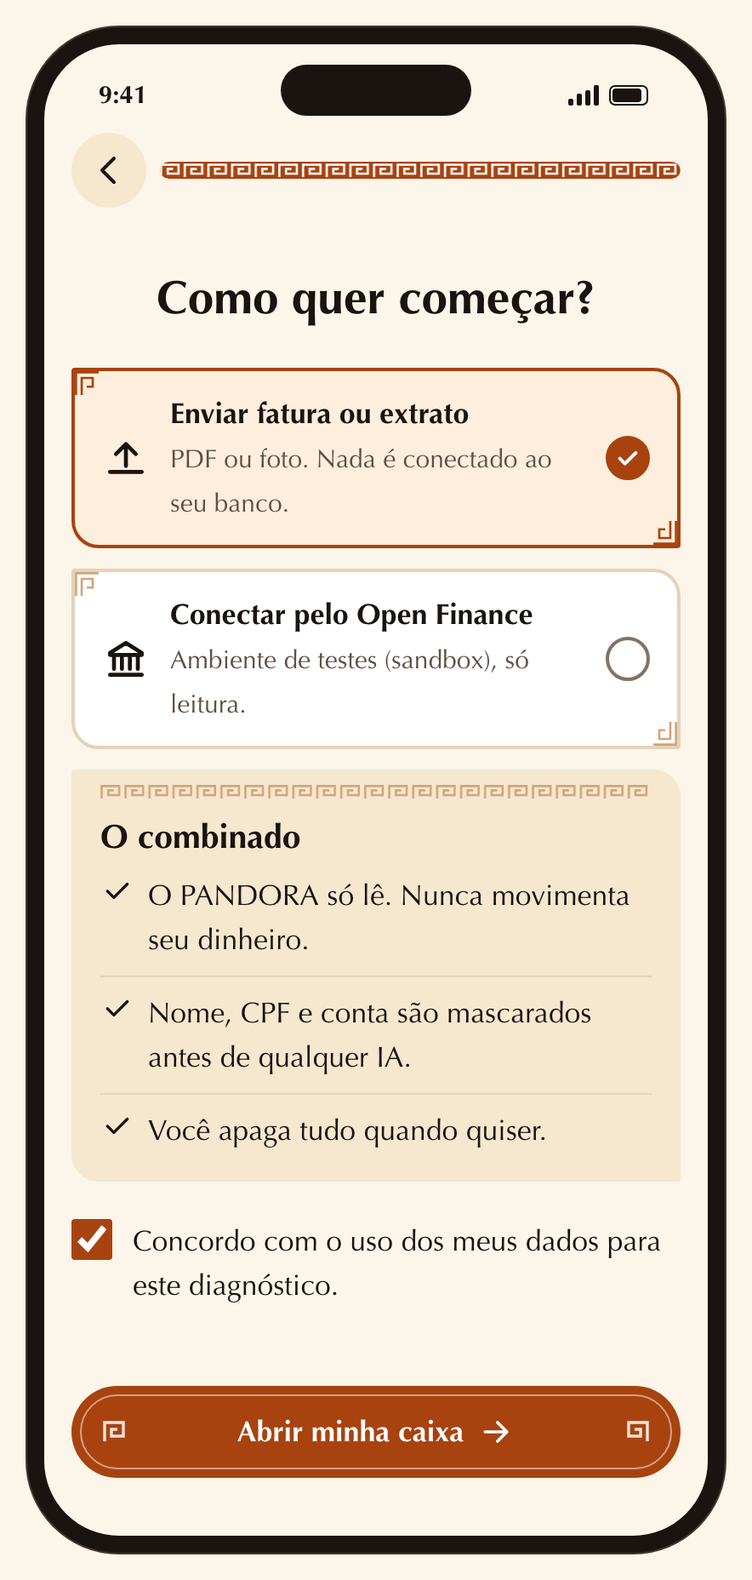
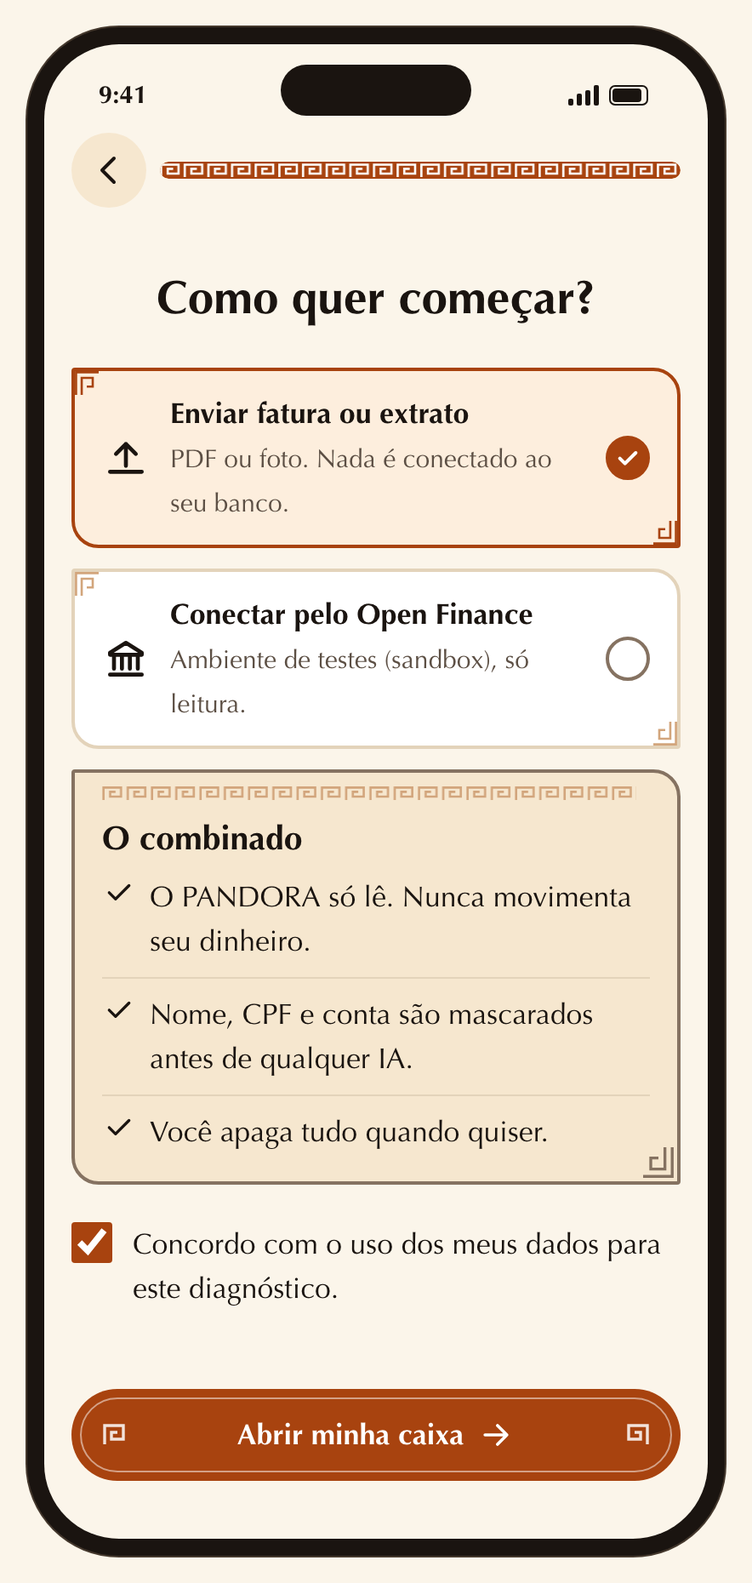
fix(front): moldura e disco de ícone nos avisos e serra da navegação interrompida no medalhão
Avisos ganham borda na cor do estado, chave no canto e disco de ícone com anel duplo,
e o veredito da leitura ampliada segue a mesma moldura. A serra da NavBase deixa de
cruzar a curva do medalhão de Elpis. Novo componente Disco e telas recapturadas.

diff --git a/frontend/design-system/components/bundle.css b/frontend/design-system/components/bundle.css
@@ -64,7 +64,7 @@
 .pd-nav::before { content: ""; position: absolute; left: 50%; top: -26px; width: 92px; height: 60px; margin-left: -46px; border-radius: 46px 46px 0 0; background: var(--base); }
 .pd-nav-item { position: relative; display: flex; flex-direction: column; align-items: center; justify-content: flex-end; gap: 2px; min-height: 56px; padding: 4px 0; border: 0; background: transparent; color: #fbf5ea; font-size: 15px; line-height: 18px; font-weight: 400; cursor: pointer; }
 .pd-nav-item[aria-current="page"] { color: #ff9a55; font-weight: 700; }
-.pd-nav-item[aria-current="page"]::before { content: ""; position: absolute; top: -6px; left: 50%; width: 42px; height: 7px; margin-left: -21px; background: #ff9a55; -webkit-mask: var(--orn-meandro-fino) left center / 14px 7px round no-repeat; mask: var(--orn-meandro-fino) left center / 14px 7px round no-repeat; }
+.pd-nav-item[aria-current="page"]::before { content: ""; position: absolute; top: -3px; left: 50%; width: 42px; height: 7px; margin-left: -21px; background: #ff9a55; -webkit-mask: var(--orn-meandro-fino) left center / 14px 7px round no-repeat; mask: var(--orn-meandro-fino) left center / 14px 7px round no-repeat; }
 .pd-nav-elpis-disco { position: absolute; top: -32px; left: 50%; width: 60px; height: 60px; margin-left: -30px; border-radius: 30px; display: flex; align-items: center; justify-content: center; }
 .pd-nav-item[aria-current="page"] .pd-nav-elpis-disco { box-shadow: 0 0 0 3px #fbf5ea; }
 .pd-nav-item-elpis[aria-current="page"]::before { display: none; }
@@ -229,7 +229,10 @@
 .pd-crise { flex: 1; display: flex; flex-direction: column; gap: var(--espaco-4); padding: var(--espaco-6) var(--espaco-6) 38px; }
 .pd-crise-titulo { font-size: 30px; line-height: 38px; font-weight: 700; }
 .pd-ampliado { flex: 1; display: flex; flex-direction: column; gap: var(--espaco-4); padding: var(--espaco-4) var(--espaco-4) 34px; font-size: 24px; line-height: 34px; font-weight: 400; }
-.pd-ampliado-veredito { display: flex; flex-direction: column; gap: var(--espaco-2); padding: 20px; border-radius: var(--raio-md); background: var(--alerta-suave); color: var(--texto); }
+.pd-ampliado-veredito { position: relative; display: flex; flex-direction: column; align-items: flex-start; gap: var(--espaco-2); padding: 24px 20px 20px; border-radius: 2px var(--raio-md) 2px var(--raio-md); background: var(--alerta-suave); color: var(--texto); border: 3px double var(--alerta); }
+.pd-ampliado-veredito::before, .pd-ampliado-veredito::after { content: ""; position: absolute; width: 22px; height: 22px; background: var(--alerta); -webkit-mask: var(--orn-chave-canto) center / 100% 100% no-repeat; mask: var(--orn-chave-canto) center / 100% 100% no-repeat; }
+.pd-ampliado-veredito::before { top: 3px; left: 3px; }
+.pd-ampliado-veredito::after { right: 3px; bottom: 3px; transform: rotate(180deg); }
 .pd-ampliado-titulo { font-size: 44px; line-height: 50px; font-weight: 900; color: var(--alerta); }
 
 /* Frisos */
@@ -253,12 +256,27 @@
 
 /* Avisos: cada estado tem o seu friso, além do ícone e da palavra */
 .pd-cartao-apoio, .pd-cartao-alerta, .pd-cartao-ok, .pd-insight { padding-top: 26px; }
-.pd-cartao-apoio::after, .pd-cartao-alerta::after, .pd-cartao-ok::after, .pd-insight::after { display: none; }
-.pd-cartao-apoio::before, .pd-cartao-alerta::before, .pd-cartao-ok::before, .pd-insight::before { top: 8px; left: 16px; width: auto; right: 16px; -webkit-mask-repeat: round no-repeat; mask-repeat: round no-repeat; -webkit-mask-position: left center; mask-position: left center; }
+.pd-cartao-apoio, .pd-cartao-alerta, .pd-cartao-ok, .pd-insight { border: 2px solid var(--aviso-cor); }
+.pd-cartao-apoio { --aviso-cor: var(--linha-forte); }
+.pd-cartao-alerta { --aviso-cor: var(--alerta); }
+.pd-cartao-ok { --aviso-cor: var(--ok); }
+.pd-insight { --aviso-cor: var(--ornamento-forte); }
+.pd-cartao-apoio::after, .pd-cartao-alerta::after, .pd-cartao-ok::after, .pd-insight::after { width: 18px; height: 18px; right: 2px; bottom: 2px; background: var(--aviso-cor); }
+.pd-cartao-apoio::before, .pd-cartao-alerta::before, .pd-cartao-ok::before, .pd-insight::before { top: 8px; left: 16px; width: auto; right: 24px; -webkit-mask-repeat: round no-repeat; mask-repeat: round no-repeat; -webkit-mask-position: left center; mask-position: left center; }
 .pd-cartao-apoio::before { height: 8px; -webkit-mask-image: var(--orn-meandro-fino); mask-image: var(--orn-meandro-fino); -webkit-mask-size: 14px 8px; mask-size: 14px 8px; }
 .pd-cartao-alerta::before { height: 7px; background: var(--alerta); -webkit-mask-image: var(--orn-serra-fina); mask-image: var(--orn-serra-fina); -webkit-mask-size: 10px 7px; mask-size: 10px 7px; }
 .pd-cartao-ok::before { height: 10px; background: var(--ok); -webkit-mask-image: var(--orn-ramo); mask-image: var(--orn-ramo); -webkit-mask-size: 22px 10px; mask-size: 22px 10px; }
 .pd-insight::before { height: 14px; background: var(--ornamento-forte); -webkit-mask-image: var(--orn-palmeta); mask-image: var(--orn-palmeta); -webkit-mask-size: 34px 14px; mask-size: 34px 14px; }
+
+/* Disco de ícone dos avisos: anel duplo, como os botões redondos */
+.pd-cartao-cabeca { display: flex; align-items: center; gap: var(--espaco-3); }
+.pd-cartao-cabeca .pd-cartao-titulo { flex: 1; min-width: 0; }
+.pd-disco { flex: none; display: inline-flex; align-items: center; justify-content: center; width: 32px; height: 32px; border-radius: 50%; color: var(--cartao); background: var(--disco-cor); box-shadow: 0 0 0 2px var(--cartao), 0 0 0 3.5px var(--disco-cor); margin: 3px; }
+.pd-disco-alerta { --disco-cor: var(--alerta); }
+.pd-disco-ok { --disco-cor: var(--ok); }
+.pd-disco-grande { width: 56px; height: 56px; margin: 4px; }
+.pd-disco-pequeno { width: 26px; height: 26px; margin: 2px; box-shadow: 0 0 0 1.5px var(--cartao), 0 0 0 3px var(--disco-cor); }
+.pd-lista > li > .pd-disco-pequeno { margin-top: 0; margin-right: 5px; }
 
 /* Botões: filete interno e uma chave em cada ponta */
 .pd-botao-primario::before, .pd-botao-mito::before, .pd-botao-claro::before { content: ""; position: absolute; inset: 3px; border-radius: inherit; border: 1px solid currentColor; opacity: .5; pointer-events: none; }
@@ -284,7 +302,7 @@
 .pd-chat-cabeca::after { content: ""; position: absolute; left: var(--espaco-4); right: var(--espaco-4); bottom: 0; height: 8px; background: var(--ornamento); -webkit-mask: var(--orn-meandro-fino) left center / 14px 8px round no-repeat; mask: var(--orn-meandro-fino) left center / 14px 8px round no-repeat; }
 
 /* Navegação: serra na borda de cima da base do vaso */
-.pd-nav::after { content: ""; position: absolute; left: 0; right: 0; top: -7px; height: 7px; background: var(--base); -webkit-mask: var(--orn-serra-alta) left bottom / 10px 7px round no-repeat; mask: var(--orn-serra-alta) left bottom / 10px 7px round no-repeat; }
+.pd-nav::after { content: ""; position: absolute; left: 0; right: 0; top: -7px; height: 7px; background: var(--base); -webkit-mask: var(--orn-serra-alta) left bottom / 10px 7px round no-repeat, linear-gradient(90deg, #000 calc(50% - 58px), transparent calc(50% - 58px), transparent calc(50% + 58px), #000 calc(50% + 58px)); mask: var(--orn-serra-alta) left bottom / 10px 7px round no-repeat, linear-gradient(90deg, #000 calc(50% - 58px), transparent calc(50% - 58px), transparent calc(50% + 58px), #000 calc(50% + 58px)); -webkit-mask-composite: source-in; mask-composite: intersect; }
 
 /* Brasões */
 .pd-brasao { display: block; }

diff --git a/frontend/design-system/src/bundle.src.css b/frontend/design-system/src/bundle.src.css
@@ -46,7 +46,7 @@
 .pd-nav::before { content: ""; position: absolute; left: 50%; top: -26px; width: 92px; height: 60px; margin-left: -46px; border-radius: 46px 46px 0 0; background: var(--base); }
 .pd-nav-item { position: relative; display: flex; flex-direction: column; align-items: center; justify-content: flex-end; gap: 2px; min-height: 56px; padding: 4px 0; border: 0; background: transparent; color: #fbf5ea; font-size: 15px; line-height: 18px; font-weight: 400; cursor: pointer; }
 .pd-nav-item[aria-current="page"] { color: #ff9a55; font-weight: 700; }
-.pd-nav-item[aria-current="page"]::before { content: ""; position: absolute; top: -6px; left: 50%; width: 42px; height: 7px; margin-left: -21px; background: #ff9a55; -webkit-mask: var(--orn-meandro-fino) left center / 14px 7px round no-repeat; mask: var(--orn-meandro-fino) left center / 14px 7px round no-repeat; }
+.pd-nav-item[aria-current="page"]::before { content: ""; position: absolute; top: -3px; left: 50%; width: 42px; height: 7px; margin-left: -21px; background: #ff9a55; -webkit-mask: var(--orn-meandro-fino) left center / 14px 7px round no-repeat; mask: var(--orn-meandro-fino) left center / 14px 7px round no-repeat; }
 .pd-nav-elpis-disco { position: absolute; top: -32px; left: 50%; width: 60px; height: 60px; margin-left: -30px; border-radius: 30px; display: flex; align-items: center; justify-content: center; }
 .pd-nav-item[aria-current="page"] .pd-nav-elpis-disco { box-shadow: 0 0 0 3px #fbf5ea; }
 .pd-nav-item-elpis[aria-current="page"]::before { display: none; }
@@ -211,7 +211,10 @@
 .pd-crise { flex: 1; display: flex; flex-direction: column; gap: var(--espaco-4); padding: var(--espaco-6) var(--espaco-6) 38px; }
 .pd-crise-titulo { font-size: 30px; line-height: 38px; font-weight: 700; }
 .pd-ampliado { flex: 1; display: flex; flex-direction: column; gap: var(--espaco-4); padding: var(--espaco-4) var(--espaco-4) 34px; font-size: 24px; line-height: 34px; font-weight: 400; }
-.pd-ampliado-veredito { display: flex; flex-direction: column; gap: var(--espaco-2); padding: 20px; border-radius: var(--raio-md); background: var(--alerta-suave); color: var(--texto); }
+.pd-ampliado-veredito { position: relative; display: flex; flex-direction: column; align-items: flex-start; gap: var(--espaco-2); padding: 24px 20px 20px; border-radius: 2px var(--raio-md) 2px var(--raio-md); background: var(--alerta-suave); color: var(--texto); border: 3px double var(--alerta); }
+.pd-ampliado-veredito::before, .pd-ampliado-veredito::after { content: ""; position: absolute; width: 22px; height: 22px; background: var(--alerta); -webkit-mask: var(--orn-chave-canto) center / 100% 100% no-repeat; mask: var(--orn-chave-canto) center / 100% 100% no-repeat; }
+.pd-ampliado-veredito::before { top: 3px; left: 3px; }
+.pd-ampliado-veredito::after { right: 3px; bottom: 3px; transform: rotate(180deg); }
 .pd-ampliado-titulo { font-size: 44px; line-height: 50px; font-weight: 900; color: var(--alerta); }
 
 /* Frisos */
@@ -235,12 +238,27 @@
 
 /* Avisos: cada estado tem o seu friso, além do ícone e da palavra */
 .pd-cartao-apoio, .pd-cartao-alerta, .pd-cartao-ok, .pd-insight { padding-top: 26px; }
-.pd-cartao-apoio::after, .pd-cartao-alerta::after, .pd-cartao-ok::after, .pd-insight::after { display: none; }
-.pd-cartao-apoio::before, .pd-cartao-alerta::before, .pd-cartao-ok::before, .pd-insight::before { top: 8px; left: 16px; width: auto; right: 16px; -webkit-mask-repeat: round no-repeat; mask-repeat: round no-repeat; -webkit-mask-position: left center; mask-position: left center; }
+.pd-cartao-apoio, .pd-cartao-alerta, .pd-cartao-ok, .pd-insight { border: 2px solid var(--aviso-cor); }
+.pd-cartao-apoio { --aviso-cor: var(--linha-forte); }
+.pd-cartao-alerta { --aviso-cor: var(--alerta); }
+.pd-cartao-ok { --aviso-cor: var(--ok); }
+.pd-insight { --aviso-cor: var(--ornamento-forte); }
+.pd-cartao-apoio::after, .pd-cartao-alerta::after, .pd-cartao-ok::after, .pd-insight::after { width: 18px; height: 18px; right: 2px; bottom: 2px; background: var(--aviso-cor); }
+.pd-cartao-apoio::before, .pd-cartao-alerta::before, .pd-cartao-ok::before, .pd-insight::before { top: 8px; left: 16px; width: auto; right: 24px; -webkit-mask-repeat: round no-repeat; mask-repeat: round no-repeat; -webkit-mask-position: left center; mask-position: left center; }
 .pd-cartao-apoio::before { height: 8px; -webkit-mask-image: var(--orn-meandro-fino); mask-image: var(--orn-meandro-fino); -webkit-mask-size: 14px 8px; mask-size: 14px 8px; }
 .pd-cartao-alerta::before { height: 7px; background: var(--alerta); -webkit-mask-image: var(--orn-serra-fina); mask-image: var(--orn-serra-fina); -webkit-mask-size: 10px 7px; mask-size: 10px 7px; }
 .pd-cartao-ok::before { height: 10px; background: var(--ok); -webkit-mask-image: var(--orn-ramo); mask-image: var(--orn-ramo); -webkit-mask-size: 22px 10px; mask-size: 22px 10px; }
 .pd-insight::before { height: 14px; background: var(--ornamento-forte); -webkit-mask-image: var(--orn-palmeta); mask-image: var(--orn-palmeta); -webkit-mask-size: 34px 14px; mask-size: 34px 14px; }
+
+/* Disco de ícone dos avisos: anel duplo, como os botões redondos */
+.pd-cartao-cabeca { display: flex; align-items: center; gap: var(--espaco-3); }
+.pd-cartao-cabeca .pd-cartao-titulo { flex: 1; min-width: 0; }
+.pd-disco { flex: none; display: inline-flex; align-items: center; justify-content: center; width: 32px; height: 32px; border-radius: 50%; color: var(--cartao); background: var(--disco-cor); box-shadow: 0 0 0 2px var(--cartao), 0 0 0 3.5px var(--disco-cor); margin: 3px; }
+.pd-disco-alerta { --disco-cor: var(--alerta); }
+.pd-disco-ok { --disco-cor: var(--ok); }
+.pd-disco-grande { width: 56px; height: 56px; margin: 4px; }
+.pd-disco-pequeno { width: 26px; height: 26px; margin: 2px; box-shadow: 0 0 0 1.5px var(--cartao), 0 0 0 3px var(--disco-cor); }
+.pd-lista > li > .pd-disco-pequeno { margin-top: 0; margin-right: 5px; }
 
 /* Botões: filete interno e uma chave em cada ponta */
 .pd-botao-primario::before, .pd-botao-mito::before, .pd-botao-claro::before { content: ""; position: absolute; inset: 3px; border-radius: inherit; border: 1px solid currentColor; opacity: .5; pointer-events: none; }
@@ -266,7 +284,7 @@
 .pd-chat-cabeca::after { content: ""; position: absolute; left: var(--espaco-4); right: var(--espaco-4); bottom: 0; height: 8px; background: var(--ornamento); -webkit-mask: var(--orn-meandro-fino) left center / 14px 8px round no-repeat; mask: var(--orn-meandro-fino) left center / 14px 8px round no-repeat; }
 
 /* Navegação: serra na borda de cima da base do vaso */
-.pd-nav::after { content: ""; position: absolute; left: 0; right: 0; top: -7px; height: 7px; background: var(--base); -webkit-mask: var(--orn-serra-alta) left bottom / 10px 7px round no-repeat; mask: var(--orn-serra-alta) left bottom / 10px 7px round no-repeat; }
+.pd-nav::after { content: ""; position: absolute; left: 0; right: 0; top: -7px; height: 7px; background: var(--base); -webkit-mask: var(--orn-serra-alta) left bottom / 10px 7px round no-repeat, linear-gradient(90deg, #000 calc(50% - 58px), transparent calc(50% - 58px), transparent calc(50% + 58px), #000 calc(50% + 58px)); mask: var(--orn-serra-alta) left bottom / 10px 7px round no-repeat, linear-gradient(90deg, #000 calc(50% - 58px), transparent calc(50% - 58px), transparent calc(50% + 58px), #000 calc(50% + 58px)); -webkit-mask-composite: source-in; mask-composite: intersect; }
 
 /* Brasões */
 .pd-brasao { display: block; }

diff --git a/frontend/design-system/components/bundle.js b/frontend/design-system/components/bundle.js
@@ -1,4 +1,4 @@
-/* @ds-bundle: {"format":4,"namespace":"Pandora","components":[{"name":"Icone"},{"name":"Friso"},{"name":"Meandro"},{"name":"Serra"},{"name":"CaixaMarca"},{"name":"Elpis"},{"name":"Brasao"},{"name":"Anfora"},{"name":"Botao"},{"name":"BotaoIcone"},{"name":"BotaoVoz"},{"name":"Segmento"},{"name":"Alternador"},{"name":"Progresso"},{"name":"OpcaoCartao"},{"name":"EscalaSentimento"},{"name":"Consentimento"},{"name":"Cartao"},{"name":"Selo"},{"name":"SeloCalculado"},{"name":"Trilho"},{"name":"Insight"},{"name":"LinkCartao"},{"name":"LinhaDivida"},{"name":"DegrausProgresso"},{"name":"Balao"},{"name":"CitacaoCartao"},{"name":"BlocoCalculado"},{"name":"CampoPergunta"},{"name":"CabecalhoElpis"},{"name":"TrilhaCaminho"},{"name":"QuizOpcao"},{"name":"Rolagem"},{"name":"Aparelho"},{"name":"CabecalhoMito"},{"name":"NavBase"},{"name":"Galeria"},{"name":"TelaAbertura"},{"name":"TelaInicio"},{"name":"TelaDividas"},{"name":"TelaElpis"},{"name":"TelaTrilha"},{"name":"TelaGuardiao"},{"name":"TelaMetas"},{"name":"TelaCrise"},{"name":"TelaGuardiaoAmpliada"}]} */
+/* @ds-bundle: {"format":4,"namespace":"Pandora","components":[{"name":"Icone"},{"name":"Friso"},{"name":"Disco"},{"name":"Meandro"},{"name":"Serra"},{"name":"CaixaMarca"},{"name":"Elpis"},{"name":"Brasao"},{"name":"Anfora"},{"name":"Botao"},{"name":"BotaoIcone"},{"name":"BotaoVoz"},{"name":"Segmento"},{"name":"Alternador"},{"name":"Progresso"},{"name":"OpcaoCartao"},{"name":"EscalaSentimento"},{"name":"Consentimento"},{"name":"Cartao"},{"name":"Selo"},{"name":"SeloCalculado"},{"name":"Trilho"},{"name":"Insight"},{"name":"LinkCartao"},{"name":"LinhaDivida"},{"name":"DegrausProgresso"},{"name":"Balao"},{"name":"CitacaoCartao"},{"name":"BlocoCalculado"},{"name":"CampoPergunta"},{"name":"CabecalhoElpis"},{"name":"TrilhaCaminho"},{"name":"QuizOpcao"},{"name":"Rolagem"},{"name":"Aparelho"},{"name":"CabecalhoMito"},{"name":"NavBase"},{"name":"Galeria"},{"name":"TelaAbertura"},{"name":"TelaInicio"},{"name":"TelaDividas"},{"name":"TelaElpis"},{"name":"TelaTrilha"},{"name":"TelaGuardiao"},{"name":"TelaMetas"},{"name":"TelaCrise"},{"name":"TelaGuardiaoAmpliada"}]} */
 (function () {
   var React = window.React, h = React.createElement, useState = React.useState, useId = React.useId, useRef = React.useRef, useEffect = React.useEffect, Fragment = React.Fragment;
   var CENA_PADRAO = './assets/Cena/pandora-cena.png';
@@ -142,11 +142,18 @@
   }
   function SeloCalculado() { return h(Selo, { tom: 'fonte', icone: 'check' }, 'Calculado'); }
 
+  /* Disco de ícone para estados: o ícone vem sempre com palavra ao lado. */
+  function Disco(p) {
+    return h('span', { className: cx('pd-disco', 'pd-disco-' + p.tom, p.tamanho && 'pd-disco-' + p.tamanho), 'aria-hidden': true }, h(Icone, { nome: p.icone, tamanho: p.tamanho === 'grande' ? 34 : p.tamanho === 'pequeno' ? 16 : 20, traco: 2.6 }));
+  }
+
   /* Dados */
   function Cartao(p) {
+    var disco = p.tom === 'alerta' ? 'alerta' : p.tom === 'ok' ? 'check' : null;
+    var titulo = p.titulo ? h('h3', { className: p.marco ? 'pd-no-marco' : 'pd-cartao-titulo' }, p.titulo) : null;
     return h('section', { className: cx('pd-cartao', p.tom && 'pd-cartao-' + p.tom, p.className) },
       p.sobre ? h('p', { className: 'pd-cartao-sobre' }, p.sobre) : null,
-      p.titulo ? h('h3', { className: p.marco ? 'pd-no-marco' : 'pd-cartao-titulo' }, p.titulo) : null, p.children);
+      disco && titulo ? h('div', { className: 'pd-cartao-cabeca' }, h(Disco, { tom: p.tom, icone: disco }), titulo) : titulo, p.children);
   }
   function Trilho(p) {
     var total = p.total || p.partes.reduce(function (s, x) { return s + x.valor; }, 0);
@@ -490,7 +497,7 @@
       h(Botao, { bloco: true, icone: 'camera' }, 'Verificar boleto ou print'),
       h(Cartao, { tom: 'alerta', titulo: 'Não pague este boleto' },
         h('p', null, '“Quitação com 70% de desconto”, recebido por WhatsApp. ', h('strong', { className: 'pd-num' }, 'R$ 1.198,00'), '.'),
-        h('ul', { className: 'pd-lista' }, [['check', 'Linha digitável', 'Lida e conferida'], ['x', 'Banco do boleto', 'Diferente do banco credor'], ['x', 'Quem recebe', 'Conta de pessoa física']].map(function (l) { return h('li', { key: l[1] }, h(Icone, { nome: l[0], tamanho: 22, traco: 2.5 }), h('span', { className: 'pd-lista-texto' }, h('strong', null, l[1]), h('br'), l[2])); })),
+        h('ul', { className: 'pd-lista' }, [['check', 'Linha digitável', 'Lida e conferida'], ['x', 'Banco do boleto', 'Diferente do banco credor'], ['x', 'Quem recebe', 'Conta de pessoa física']].map(function (l) { return h('li', { key: l[1] }, h(Disco, { tom: l[0] === 'check' ? 'ok' : 'alerta', icone: l[0], tamanho: 'pequeno' }), h('span', { className: 'pd-lista-texto' }, h('strong', null, l[1]), h('br'), l[2])); })),
         h(Botao, { variante: 'secundario', bloco: true, icone: 'pessoas' }, 'Avisar pessoa de confiança')),
       h(Cartao, { titulo: 'Já fez o Pix?' },
         h('p', null, 'Dá para pedir a devolução pelo MED em até 80 dias.'),
@@ -503,7 +510,7 @@
   function TelaGuardiaoAmpliada() {
     return h(Aparelho, null, h('div', { className: 'pd-ampliado pd-acessivel pd-contido' },
       h('div', { className: 'pd-ampliado-veredito' },
-        h(Icone, { nome: 'alerta', tamanho: 44, traco: 2.5, className: 'pd-icone-tom', rotulo: 'Alerta' }),
+        h('span', { role: 'img', 'aria-label': 'Alerta' }, h(Disco, { tom: 'alerta', icone: 'alerta', tamanho: 'grande' })),
         h('h1', { className: 'pd-ampliado-titulo' }, 'PARE!'),
         h('p', { style: { fontWeight: 700 } }, 'Sr. Antônio, não pague este boleto.')),
       h('p', null, 'Ele tem o desenho do banco, mas o dinheiro vai para a conta de uma pessoa desconhecida.'),
@@ -578,7 +585,7 @@
   }
 
   window.Pandora = {
-    Icone: Icone, Friso: Friso, Meandro: Meandro, Serra: Serra, CaixaMarca: CaixaMarca, Elpis: Elpis, Brasao: Brasao, Anfora: Anfora,
+    Icone: Icone, Disco: Disco, Friso: Friso, Meandro: Meandro, Serra: Serra, CaixaMarca: CaixaMarca, Elpis: Elpis, Brasao: Brasao, Anfora: Anfora,
     Botao: Botao, BotaoIcone: BotaoIcone, BotaoVoz: BotaoVoz, Selo: Selo, SeloCalculado: SeloCalculado,
     Cartao: Cartao, Trilho: Trilho, Insight: Insight, LinkCartao: LinkCartao, CampoPergunta: CampoPergunta,
     Progresso: Progresso, OpcaoCartao: OpcaoCartao, EscalaSentimento: EscalaSentimento, Consentimento: Consentimento, Segmento: Segmento, Alternador: Alternador,

diff --git a/frontend/design-system/src/bundle.body.js b/frontend/design-system/src/bundle.body.js
@@ -141,11 +141,18 @@
   }
   function SeloCalculado() { return h(Selo, { tom: 'fonte', icone: 'check' }, 'Calculado'); }
 
+  /* Disco de ícone para estados: o ícone vem sempre com palavra ao lado. */
+  function Disco(p) {
+    return h('span', { className: cx('pd-disco', 'pd-disco-' + p.tom, p.tamanho && 'pd-disco-' + p.tamanho), 'aria-hidden': true }, h(Icone, { nome: p.icone, tamanho: p.tamanho === 'grande' ? 34 : p.tamanho === 'pequeno' ? 16 : 20, traco: 2.6 }));
+  }
+
   /* Dados */
   function Cartao(p) {
+    var disco = p.tom === 'alerta' ? 'alerta' : p.tom === 'ok' ? 'check' : null;
+    var titulo = p.titulo ? h('h3', { className: p.marco ? 'pd-no-marco' : 'pd-cartao-titulo' }, p.titulo) : null;
     return h('section', { className: cx('pd-cartao', p.tom && 'pd-cartao-' + p.tom, p.className) },
       p.sobre ? h('p', { className: 'pd-cartao-sobre' }, p.sobre) : null,
-      p.titulo ? h('h3', { className: p.marco ? 'pd-no-marco' : 'pd-cartao-titulo' }, p.titulo) : null, p.children);
+      disco && titulo ? h('div', { className: 'pd-cartao-cabeca' }, h(Disco, { tom: p.tom, icone: disco }), titulo) : titulo, p.children);
   }
   function Trilho(p) {
     var total = p.total || p.partes.reduce(function (s, x) { return s + x.valor; }, 0);
@@ -489,7 +496,7 @@
       h(Botao, { bloco: true, icone: 'camera' }, 'Verificar boleto ou print'),
       h(Cartao, { tom: 'alerta', titulo: 'Não pague este boleto' },
         h('p', null, '“Quitação com 70% de desconto”, recebido por WhatsApp. ', h('strong', { className: 'pd-num' }, 'R$ 1.198,00'), '.'),
-        h('ul', { className: 'pd-lista' }, [['check', 'Linha digitável', 'Lida e conferida'], ['x', 'Banco do boleto', 'Diferente do banco credor'], ['x', 'Quem recebe', 'Conta de pessoa física']].map(function (l) { return h('li', { key: l[1] }, h(Icone, { nome: l[0], tamanho: 22, traco: 2.5 }), h('span', { className: 'pd-lista-texto' }, h('strong', null, l[1]), h('br'), l[2])); })),
+        h('ul', { className: 'pd-lista' }, [['check', 'Linha digitável', 'Lida e conferida'], ['x', 'Banco do boleto', 'Diferente do banco credor'], ['x', 'Quem recebe', 'Conta de pessoa física']].map(function (l) { return h('li', { key: l[1] }, h(Disco, { tom: l[0] === 'check' ? 'ok' : 'alerta', icone: l[0], tamanho: 'pequeno' }), h('span', { className: 'pd-lista-texto' }, h('strong', null, l[1]), h('br'), l[2])); })),
         h(Botao, { variante: 'secundario', bloco: true, icone: 'pessoas' }, 'Avisar pessoa de confiança')),
       h(Cartao, { titulo: 'Já fez o Pix?' },
         h('p', null, 'Dá para pedir a devolução pelo MED em até 80 dias.'),
@@ -502,7 +509,7 @@
   function TelaGuardiaoAmpliada() {
     return h(Aparelho, null, h('div', { className: 'pd-ampliado pd-acessivel pd-contido' },
       h('div', { className: 'pd-ampliado-veredito' },
-        h(Icone, { nome: 'alerta', tamanho: 44, traco: 2.5, className: 'pd-icone-tom', rotulo: 'Alerta' }),
+        h('span', { role: 'img', 'aria-label': 'Alerta' }, h(Disco, { tom: 'alerta', icone: 'alerta', tamanho: 'grande' })),
         h('h1', { className: 'pd-ampliado-titulo' }, 'PARE!'),
         h('p', { style: { fontWeight: 700 } }, 'Sr. Antônio, não pague este boleto.')),
       h('p', null, 'Ele tem o desenho do banco, mas o dinheiro vai para a conta de uma pessoa desconhecida.'),
@@ -577,7 +584,7 @@
   }
 
   window.Pandora = {
-    Icone: Icone, Friso: Friso, Meandro: Meandro, Serra: Serra, CaixaMarca: CaixaMarca, Elpis: Elpis, Brasao: Brasao, Anfora: Anfora,
+    Icone: Icone, Disco: Disco, Friso: Friso, Meandro: Meandro, Serra: Serra, CaixaMarca: CaixaMarca, Elpis: Elpis, Brasao: Brasao, Anfora: Anfora,
     Botao: Botao, BotaoIcone: BotaoIcone, BotaoVoz: BotaoVoz, Selo: Selo, SeloCalculado: SeloCalculado,
     Cartao: Cartao, Trilho: Trilho, Insight: Insight, LinkCartao: LinkCartao, CampoPergunta: CampoPergunta,
     Progresso: Progresso, OpcaoCartao: OpcaoCartao, EscalaSentimento: EscalaSentimento, Consentimento: Consentimento, Segmento: Segmento, Alternador: Alternador,

diff --git a/frontend/design-system/src/build.js b/frontend/design-system/src/build.js
@@ -11,6 +11,7 @@ const coluna = '{className:"pd-demo-coluna"}', linha = '{className:"pd-demo-linh
 const C = [
   ['Icone', 'Marca', 90, 0, 'Ícone de traço em grade de 24px, com a cor herdada do texto.', 'Use sempre com rótulo visível ou passe `rotulo`. O consumidor informa `nome`.', 'nome: string; tamanho?: number; traco?: number; rotulo?: string; className?: string', `h("div",${linha},["casa","balanca","trilha","escudo","microfone","camera","alerta","check","livro","documento","telefone","som"].map(function(n){return h(P.Icone,{key:n,nome:n,tamanho:28})}))`],
   ['Friso', 'Marca', 170, 0, 'Faixa fina de ornamento grego para o registro de leitura.', 'Um por bloco, nunca atrás de texto. `curto` centraliza 120px, para separar turnos de conversa. Decorativo, escondido de leitores de tela.', 'tipo?: "meandro" | "onda" | "palmeta" | "serra" | "ramo"; tom?: "forte" | "vaso" | "base"; curto?: boolean; grande?: boolean', `h("div",${coluna},["meandro","onda","palmeta","serra","ramo"].map(function(t){return h(P.Friso,{key:t,tipo:t,tom:"forte"})}))`],
+  ['Disco', 'Marca', 90, 0, 'Disco de ícone para estados, com anel duplo como os botões redondos.', 'Use em avisos e listas de checagem. O ícone nunca vem sozinho: sempre há uma palavra ao lado. `Cartao` com `tom` alerta ou ok já inclui um.', 'tom: "alerta" | "ok"; icone: string; tamanho?: "pequeno" | "grande"', `h("div",${linha},h(P.Disco,{tom:"ok",icone:"check",tamanho:"pequeno"}),h(P.Disco,{tom:"ok",icone:"check"}),h(P.Disco,{tom:"alerta",icone:"alerta"}),h(P.Disco,{tom:"alerta",icone:"alerta",tamanho:"grande"}))`],
   ['Meandro', 'Marca', 60, 0, 'Friso grego que abre todo cabeçalho do mito.', 'Use só sobre `laranja-vaso`. Decorativo, escondido de leitores de tela.', '', `h(P.Meandro)`],
   ['Serra', 'Marca', 70, 0, 'Dentes de serra da base do vaso, que encerram o cabeçalho do mito.', 'Use na transição do mito para a leitura. Decorativo.', '', `h("div",{className:"pd-ornamento-amostra"},h(P.Serra))`],
   ['CaixaMarca', 'Marca', 150, 0, 'Marca do produto: a caixa aberta com os espíritos saindo.', 'Use sobre `laranja-vaso`, com pelo menos 48px. Não recolora.', 'tamanho?: number; rotulo?: string', `h("div",{style:{background:"#f0792b",padding:16,display:"inline-block",borderRadius:16}},h(P.CaixaMarca,{tamanho:112}))`],

diff --git a/frontend/design-system/components/index.d.ts b/frontend/design-system/components/index.d.ts
@@ -8,6 +8,10 @@ export function Icone(props: IconeProps): React.ReactElement;
 export interface FrisoProps { tipo?: "meandro" | "onda" | "palmeta" | "serra" | "ramo"; tom?: "forte" | "vaso" | "base"; curto?: boolean; grande?: boolean }
 export function Friso(props: FrisoProps): React.ReactElement;
 
+/** Disco de ícone para estados, com anel duplo como os botões redondos. */
+export interface DiscoProps { tom: "alerta" | "ok"; icone: string; tamanho?: "pequeno" | "grande" }
+export function Disco(props: DiscoProps): React.ReactElement;
+
 /** Friso grego que abre todo cabeçalho do mito. */
 export interface MeandroProps {  }
 export function Meandro(props: MeandroProps): React.ReactElement;
